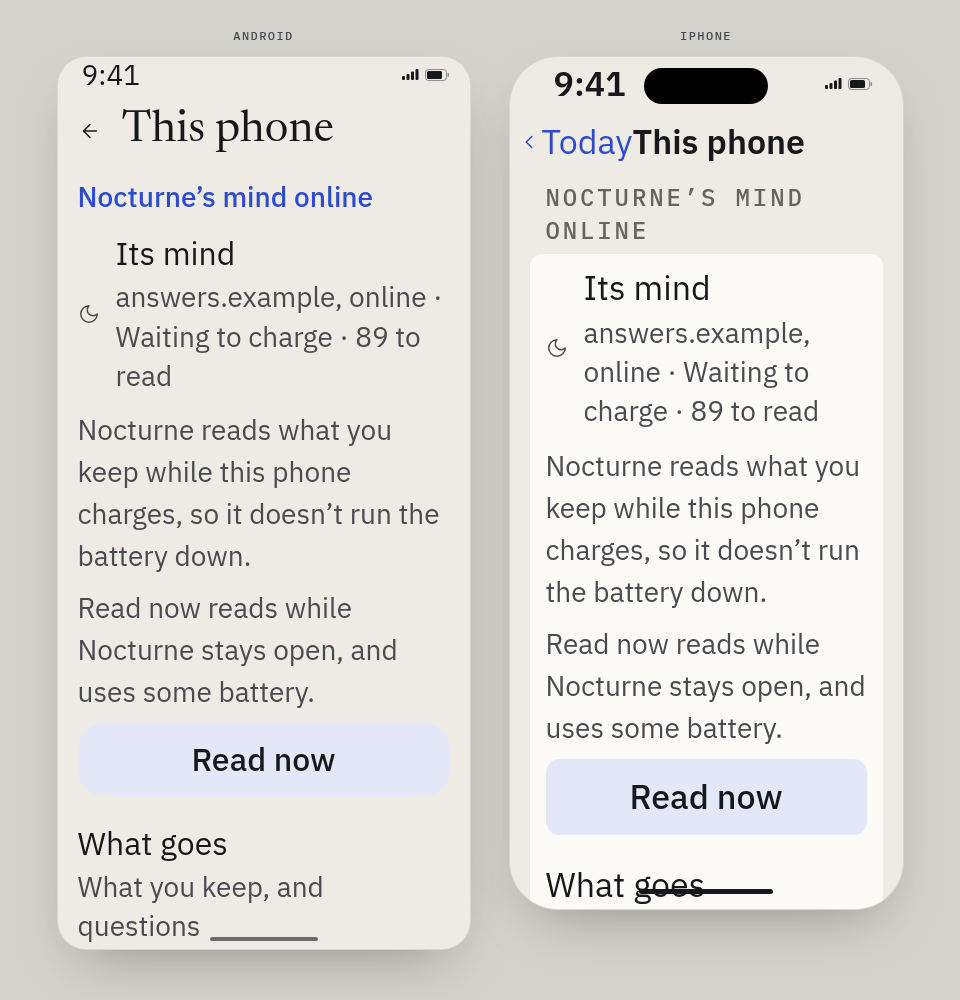
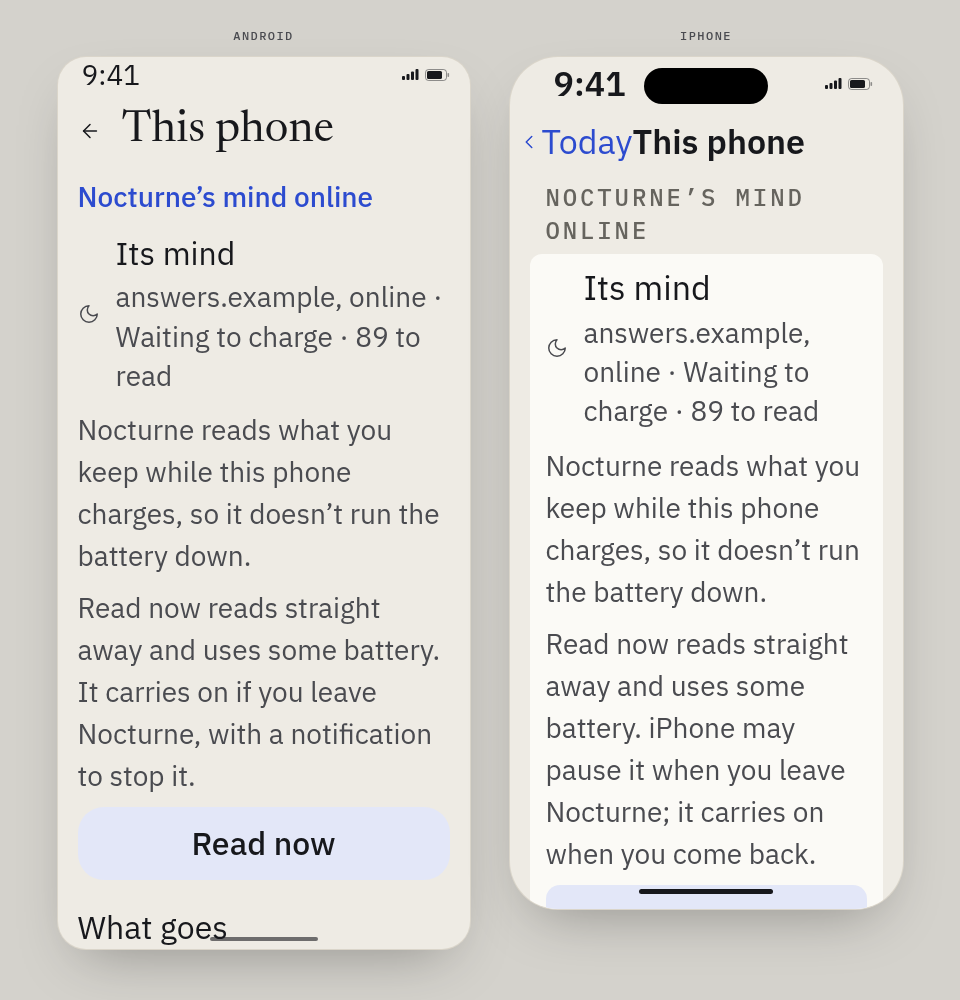
docs(design): show read now in the background

diff --git a/docs/design/mockups/mind-online-setup/reading.html b/docs/design/mockups/mind-online-setup/reading.html
@@ -11,77 +11,111 @@
 {
   "*": { "tab": "", "action": false, "bar": "back", "title": "This phone", "back": "Today" },
   "first-waiting": { "bar": "none" },
-  "first-now": { "bar": "none" }
+  "first-now": { "bar": "none" },
+  "away": { "bar": "none" },
+  "paused": { "bar": "none" }
 }
 </script>
 </head>
-<body data-frame="duo" data-states="waiting now left low done paused unreachable first-waiting first-now">
+<body data-frame="duo" data-states="waiting now away paused back low anyway done limit unreachable first-waiting first-now">
 <main id="content" style="gap: 20px">
 
   <!-- This phone: the mind online group -->
-  <div class="group" data-state="waiting now left low done paused unreachable">
+  <div class="group" data-state="waiting now back low anyway done limit unreachable">
     <p class="ghead">Your memory</p>
     <div class="rows">
       <div class="row"><span data-icon="phone" data-size="22"></span><span class="rowText"><span class="rowLabel">Where it is</span><span class="rowHint">On this phone · 412 MB</span></span></div>
     </div>
   </div>
 
-  <div class="group" data-state="waiting now left low done paused unreachable">
+  <div class="group" data-state="waiting now back low anyway done limit unreachable">
     <p class="ghead">Nocturne’s mind online</p>
     <div class="rows">
       <div class="row"><span data-icon="moon" data-size="22"></span><span class="rowText"><span class="rowLabel">Its mind</span>
         <span class="rowHint" data-state="waiting">answers.example, online · Waiting to charge · 89 to read</span>
-        <span class="rowHint" data-state="now">answers.example, online · Reading now · 12 of 89</span>
-        <span class="rowHint" data-state="left">answers.example, online · Waiting to charge · 77 to read</span>
+        <span class="rowHint" data-state="now back">answers.example, online · Reading now · 12 of 89</span>
         <span class="rowHint" data-state="low">answers.example, online · Waiting to charge · 58 to read</span>
+        <span class="rowHint" data-state="anyway">answers.example, online · Reading now · 31 of 89</span>
         <span class="rowHint" data-state="done">answers.example, online</span>
-        <span class="rowHint" data-state="paused">answers.example, online · Paused by your limit · 77 to read</span>
+        <span class="rowHint" data-state="limit">answers.example, online · Paused by your limit · 77 to read</span>
         <span class="rowHint" data-state="unreachable">answers.example, online · Not answering · 77 to read</span>
       </span></div>
 
-      <div class="rn" data-state="waiting left">
-        <p class="rnSaid" data-state="left">Read now stopped when you left Nocturne, after 12.</p>
+      <div class="rn" data-state="waiting">
         <p>Nocturne reads what you keep while this phone charges, so it doesn’t run the battery down.</p>
-        <p>Read now reads while Nocturne stays open, and uses some battery.</p>
+        <p data-os="android">Read now reads straight away and uses some battery. It carries on if you leave Nocturne, with a notification to stop it.</p>
+        <p data-os="ios">Read now reads straight away and uses some battery. iPhone may pause it when you leave Nocturne; it carries on when you come back.</p>
         <span class="btn" data-kind="tonal">Read now</span>
       </div>
 
-      <div class="rn" data-state="now" role="status">
-        <div class="prog"><span style="width: 13%"></span></div>
-        <p>Keep Nocturne open. The screen stays on until it’s done or you stop.</p>
+      <div class="rn" data-state="now back anyway" role="status">
+        <p class="rnSaid" data-state="back" data-os="ios">iPhone paused reading while you were away, after 12. It carries on now.</p>
+        <p class="rnSaid" data-state="anyway">Reading anyway, down to 5% battery.</p>
+        <div class="prog" data-state="now back"><span style="width: 13%"></span></div>
+        <div class="prog" data-state="anyway"><span style="width: 35%"></span></div>
+        <p data-os="android">You can leave Nocturne. Reading carries on, and the notification shows how far it has got.</p>
+        <p data-os="ios">If you leave Nocturne, iPhone may pause reading. It carries on when you come back.</p>
         <span class="btn" data-kind="quiet">Stop</span>
       </div>
+      <p class="osLabel osNote" data-state="back" data-os="android">Android doesn’t pause: it reads on with its notification.</p>
 
       <div class="rn" data-state="low">
         <p class="rnSaid">Read now stopped at 20% battery, after 31. The rest is read while this phone charges.</p>
-        <p>Nocturne reads what you keep while this phone charges, so it doesn’t run the battery down.</p>
-        <span class="btn" data-kind="tonal" data-off>Read now</span>
-        <p class="why">Read now works above 20% battery.</p>
+        <p>Read anyway reads until everything is read or you stop it, down to 5% battery.</p>
+        <span class="btn" data-kind="tonal">Read anyway</span>
       </div>
 
       <div class="rn" data-state="done" role="status">
         <p class="rnSaid"><span data-icon="check" data-size="18"></span> Everything you kept is read.</p>
       </div>
 
-      <div class="rn" data-state="paused">
+      <div class="rn" data-state="limit">
         <p class="rnSaid">You’ve reached this month’s limit. The rest is read from 1 December, or when you change the limit.</p>
         <span class="btn" data-kind="tonal">Change limit</span>
       </div>
 
       <div class="rn" data-state="unreachable">
         <p class="rnSaid">answers.example hasn’t answered since 9:12 am. Nocturne looks again on its own.</p>
-        <p>Read now looks once more, then reads while Nocturne stays open, and uses some battery.</p>
+        <p>Read now looks once more, then reads straight away, and uses some battery.</p>
         <span class="btn" data-kind="tonal">Read now</span>
       </div>
 
       <div class="row"><span class="rowText"><span class="rowLabel">What goes</span><span class="rowHint">What you keep, and questions</span></span></div>
       <div class="row"><span class="rowText"><span class="rowLabel">See what was sent</span></span><span class="rowChev" data-icon="chevron-right" data-size="18"></span></div>
       <div class="row"><span class="rowText"><span class="rowLabel">This month</span>
-        <span class="rowHint" data-state="paused">200 things read and answered · limit 200</span>
-        <span class="rowHint" data-state="waiting now left low done unreachable">3 things read and answered · no limit</span>
+        <span class="rowHint" data-state="limit">200 things read and answered · limit 200</span>
+        <span class="rowHint" data-state="waiting now back low anyway done unreachable">3 things read and answered · no limit</span>
       </span></div>
     </div>
   </div>
+
+  <!-- Away from Nocturne while it reads: Android's notification, iPhone's own progress -->
+  <div class="shade" data-state="away" data-os="android">
+    <p class="shadeTime">9:41 <span>Tue 24 Nov</span></p>
+    <div class="tiles"><span></span><span></span><span></span><span></span></div>
+    <div class="note2">
+      <p class="noteApp"><span data-mark="14"></span> Nocturne · Reading now</p>
+      <p class="noteTitle">Reading what you kept</p>
+      <p class="noteText">12 of 89</p>
+      <div class="noteProg"><span style="width: 13%"></span></div>
+      <p class="noteActs"><span>Stop</span></p>
+    </div>
+  </div>
+  <div class="lock" data-state="away paused" data-os="ios">
+    <p class="lockDate">Tuesday 24 November</p>
+    <p class="lockTime">9:41</p>
+    <div class="live" data-state="away">
+      <div class="liveHead"><span data-mark="18"></span><span class="liveTitle">Reading what you kept</span><span class="liveStop" aria-label="Stop"><span data-icon="x" data-size="16"></span></span></div>
+      <p class="liveText">12 of 89</p>
+      <div class="liveProg"><span style="width: 13%"></span></div>
+    </div>
+    <div class="banner" data-state="paused">
+      <p class="bannerHead"><span data-mark="16"></span> NOCTURNE <span class="bannerWhen">now</span></p>
+      <p class="bannerTitle">Reading paused</p>
+      <p class="bannerText">iPhone paused it when you left Nocturne, after 12 of 89. Open Nocturne to carry on.</p>
+    </div>
+  </div>
+  <p class="osLabel" data-state="paused" data-os="android" style="padding-top: 320px">iPhone only. Android reads on with its notification.</p>
 
   <!-- Reading what you kept, right after turning on, on battery -->
   <div class="hero" data-state="first-waiting first-now" style="padding-top: 72px">
@@ -93,17 +127,21 @@
   <div data-state="first-waiting" style="display: flex; flex-direction: column; gap: 8px">
     <p class="pstatus" role="status"><span data-icon="moon" data-size="16"></span>Waiting to charge · 89 to read</p>
   </div>
-  <p class="small" data-state="first-waiting">Nocturne reads what you keep while this phone charges, so it doesn’t run the battery down. Read now reads while Nocturne stays open, and uses some battery.</p>
+  <p class="small" data-state="first-waiting" data-os="android">Nocturne reads what you keep while this phone charges, so it doesn’t run the battery down. Read now reads straight away and uses some battery. It carries on if you leave Nocturne, with a notification to stop it.</p>
+  <p class="small" data-state="first-waiting" data-os="ios">Nocturne reads what you keep while this phone charges, so it doesn’t run the battery down. Read now reads straight away and uses some battery. iPhone may pause it when you leave Nocturne; it carries on when you come back.</p>
   <div data-state="first-now" style="display: flex; flex-direction: column; gap: 8px">
     <div class="prog"><span style="width: 13%"></span></div>
     <p class="pstatus" role="status"><span class="pdot pulse"></span>Reading now · 12 of 89</p>
   </div>
-  <p class="small" data-state="first-now">Keep Nocturne open. The screen stays on until it’s done or you stop.</p>
+  <p class="small" data-state="first-now" data-os="android">You can leave Nocturne. Reading carries on, and the notification shows how far it has got.</p>
+  <p class="small" data-state="first-now" data-os="ios">If you leave Nocturne, iPhone may pause reading. It carries on when you come back.</p>
   <div class="foot plain" data-state="first-waiting"><span class="btn" data-kind="primary">OK</span><span class="btn">Read now</span></div>
   <div class="foot plain" data-state="first-now"><span class="btn" data-kind="primary">OK</span><span class="btn" data-kind="quiet">Stop</span></div>
 </main>
 <script src="../phone-apps/shell.js"></script>
 <script>
+const view = new URLSearchParams(location.search).get("state") || "waiting";
+document.documentElement.dataset.view = view;
 // At 200 per cent, each screen starts at the mind group, as the person would scroll to it.
 if (document.documentElement.dataset.text === "200") {
   for (const scroll of document.querySelectorAll(".scroll")) {

diff --git a/docs/design/mockups/mind-online-setup/setup.css b/docs/design/mockups/mind-online-setup/setup.css
@@ -62,3 +62,44 @@ html[data-text="200"] .device[data-os="ios"] .foot { padding-bottom: 34px; }
 .rn .btn { height: 44px; }
 html[data-text="200"] .rn .btn { height: auto; }
 svg.mark { background: none; }
+.osNote { padding: 4px 0 12px; text-align: left; letter-spacing: 0.04em; }
+
+/* Away from Nocturne: Android's notification shade, iPhone's Lock Screen */
+.shade { display: flex; flex-direction: column; gap: 14px; min-height: 100%; margin: -20px -20px -24px; padding: 12px 12px 24px; background: color-mix(in srgb, var(--ink) 10%, var(--bg)); }
+.shadeTime { padding: 0 8px; font-size: 2rem; font-weight: 400; }
+.shadeTime span { margin-left: 8px; color: var(--ink2); font-size: 0.875rem; }
+.tiles { display: grid; grid-template-columns: repeat(4, 1fr); gap: 10px; padding: 0 4px; }
+.tiles span { height: 56px; border-radius: 28px; background: color-mix(in srgb, var(--ink) 12%, var(--sheet)); }
+.note2 { display: flex; flex-direction: column; gap: 4px; padding: 14px 16px 6px; border-radius: 24px; background: var(--sheet); }
+.noteApp { display: flex; align-items: center; gap: 6px; color: var(--ink2); font-size: 0.75rem; }
+.noteTitle { font-size: 0.9375rem; font-weight: 500; }
+.noteText { color: var(--ink2); font-size: 0.875rem; }
+.noteProg, .liveProg { height: 4px; margin: 6px 0 2px; border-radius: 2px; background: var(--rule); overflow: hidden; }
+.noteProg span, .liveProg span { display: block; height: 100%; background: var(--accent); }
+.noteActs { display: flex; gap: 20px; padding: 6px 0; }
+.noteActs span { padding: 8px 0; color: var(--accent); font-size: 0.875rem; font-weight: 500; }
+
+html[data-view="away"] .device[data-os="ios"] .screen,
+html[data-view="paused"] .device[data-os="ios"] .screen { background: linear-gradient(170deg, #2b3a55 0%, #4a3f5c 55%, #1d2433 100%); }
+html[data-view="away"] .device[data-os="ios"] .sys,
+html[data-view="paused"] .device[data-os="ios"] .sys { color: #fff; }
+.lock { display: flex; flex-direction: column; align-items: center; gap: 2px; color: #fff; }
+.lockDate { margin-top: 8px; font-size: 1.125rem; font-weight: 500; }
+.lockTime { font-size: 5.5rem; font-weight: 600; line-height: 1.05; letter-spacing: -0.02em; }
+.live, .banner { align-self: stretch; display: flex; flex-direction: column; gap: 4px; margin-top: 28px; padding: 14px 16px; border-radius: 22px; background: rgba(18, 20, 26, 0.72); color: #fff; }
+.liveHead { display: flex; align-items: center; gap: 8px; }
+.liveTitle { flex: 1; font-size: 0.9375rem; font-weight: 600; }
+.liveStop { display: inline-flex; align-items: center; justify-content: center; width: 28px; height: 28px; border-radius: 50%; background: rgba(255, 255, 255, 0.18); }
+.liveText { color: rgba(255, 255, 255, 0.75); font-size: 0.875rem; }
+.live .liveProg { background: rgba(255, 255, 255, 0.2); }
+.live .liveProg span { background: #fff; }
+.banner { background: rgba(245, 245, 247, 0.82); color: #111; }
+.bannerHead { display: flex; align-items: center; gap: 6px; color: #555; font-size: 0.75rem; letter-spacing: 0.04em; }
+.bannerWhen { margin-left: auto; letter-spacing: 0; }
+.bannerTitle { font-size: 0.9375rem; font-weight: 600; }
+.bannerText { font-size: 0.875rem; line-height: 1.4; }
+.lock svg.mark, .banner svg.mark { color: currentColor; }
+html[data-text="200"] .lockTime { font-size: 3rem; }
+.shade { flex: 1; }
+html[data-view="away"] .device[data-os="android"] .screen { background: color-mix(in srgb, var(--ink) 10%, var(--bg)); }
+.lock { text-align: center; } .live, .banner { text-align: left; }
